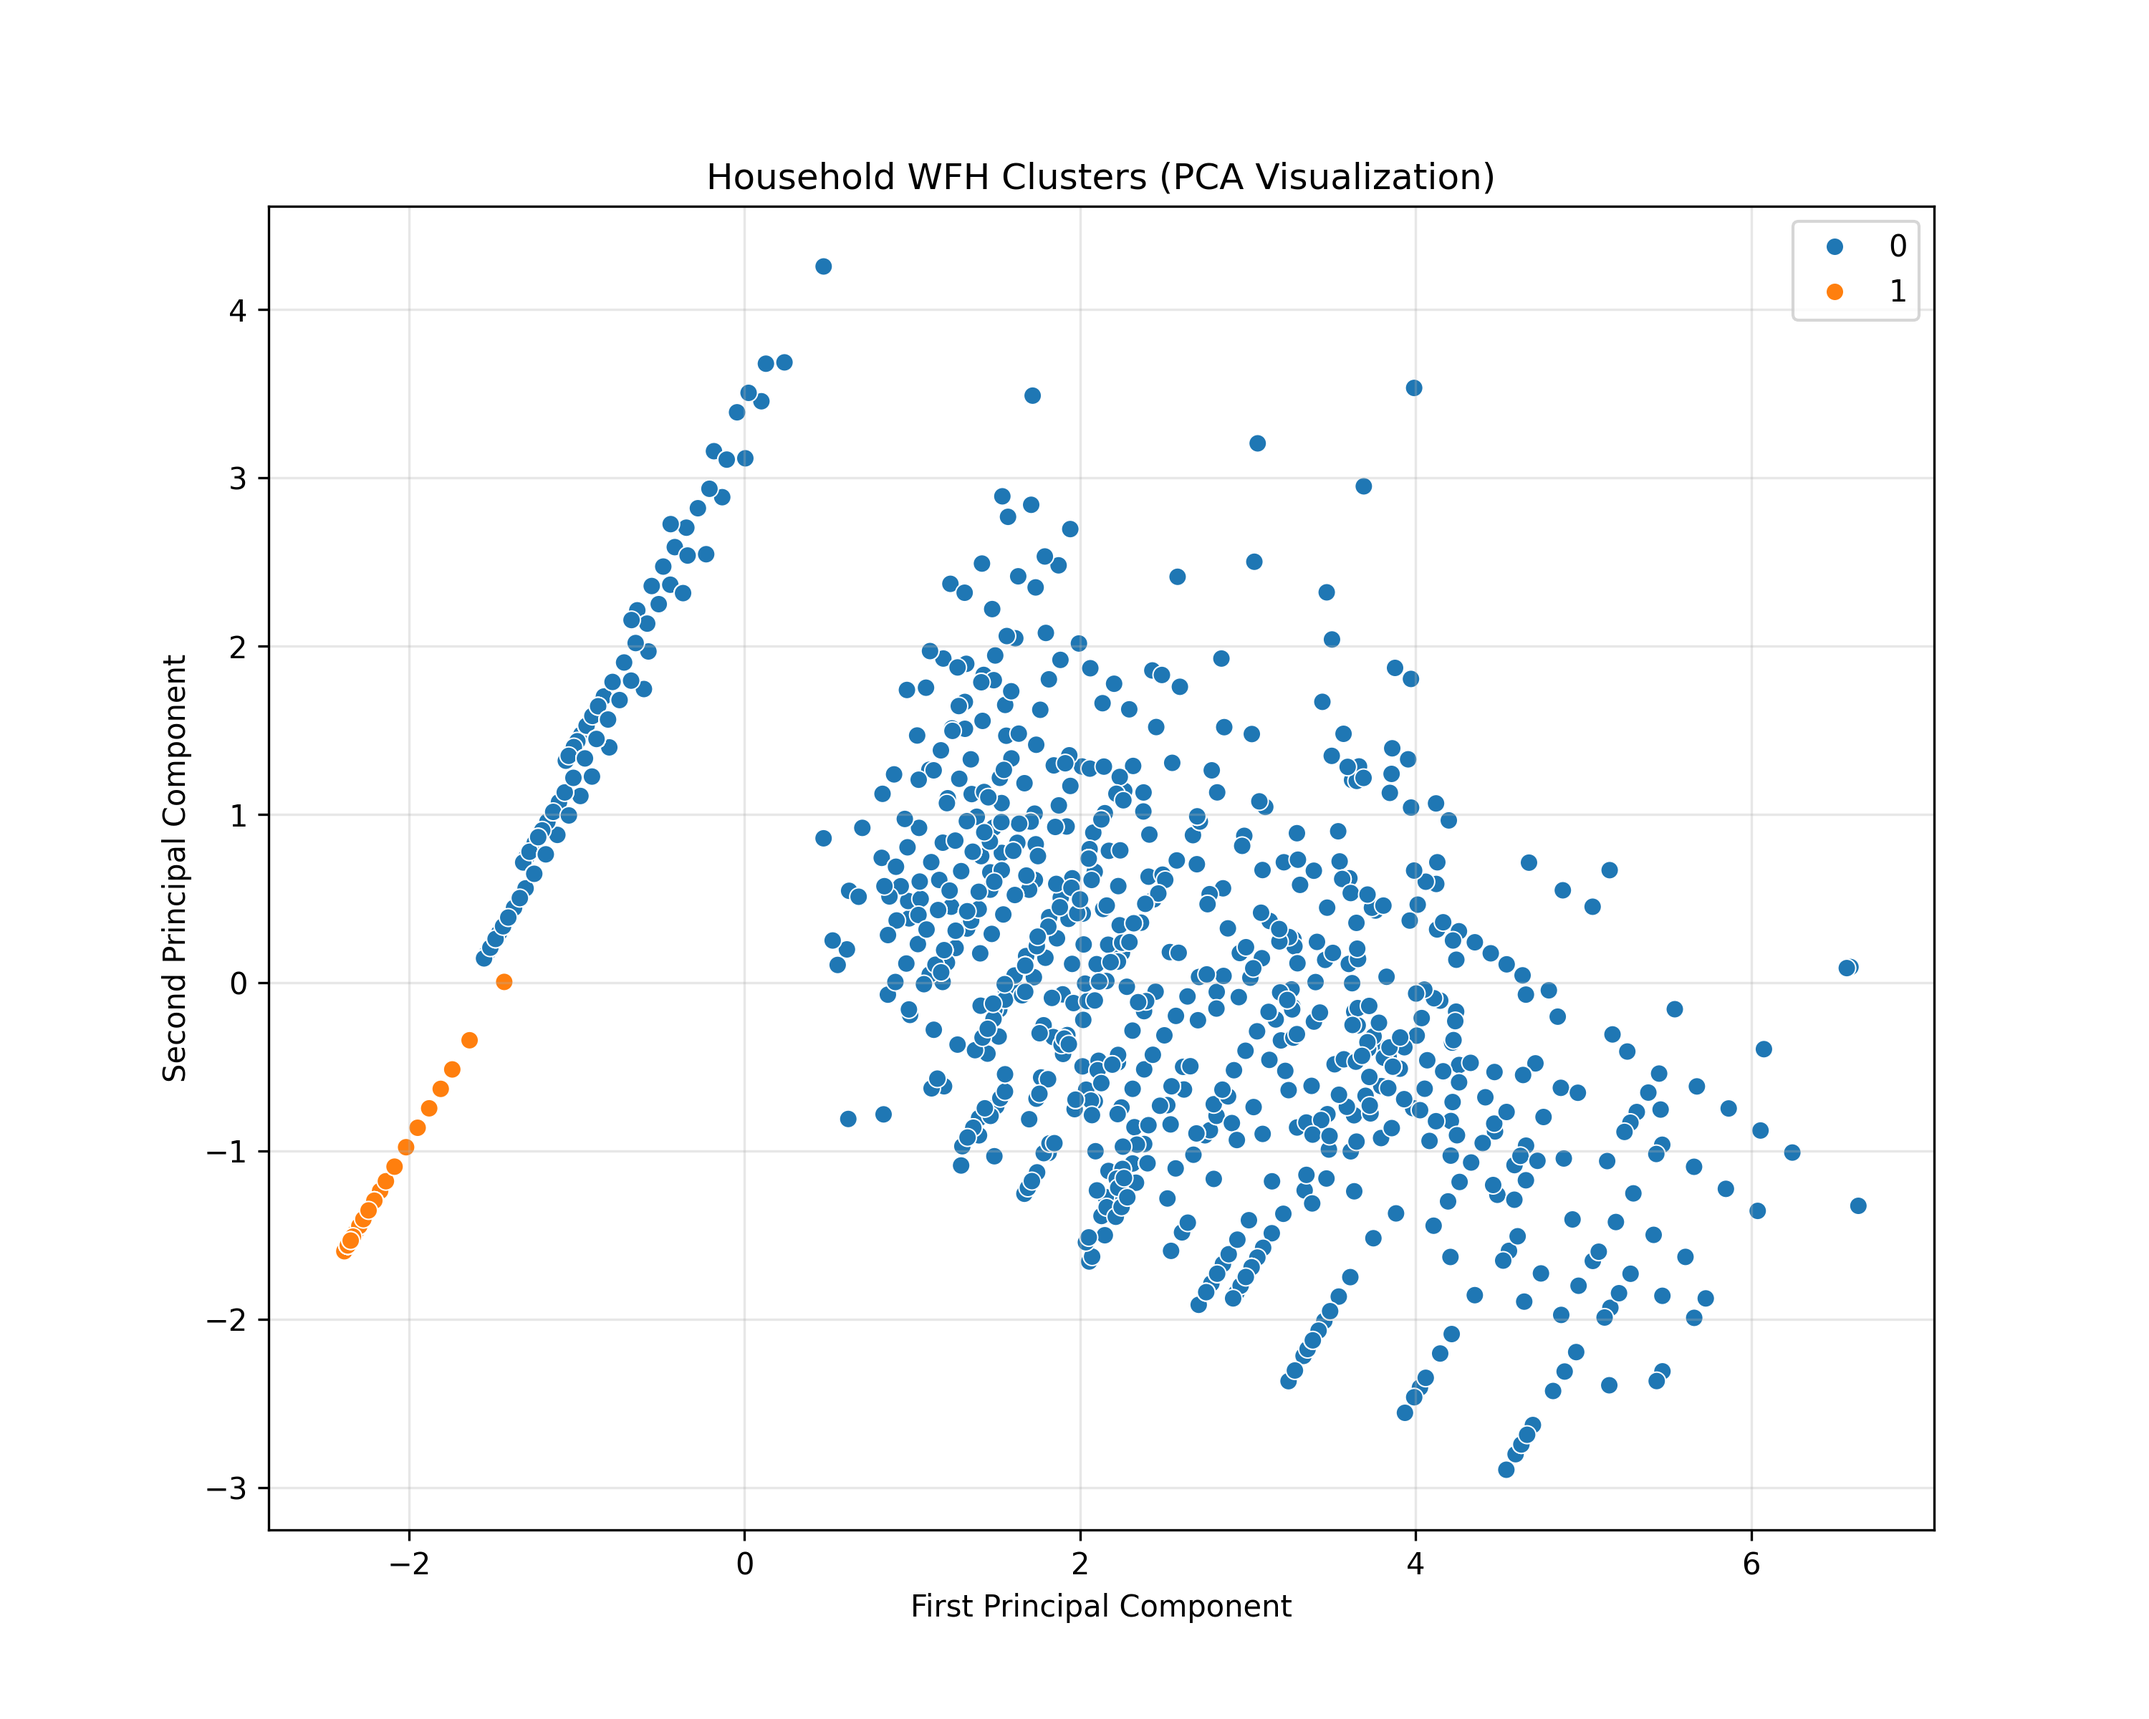
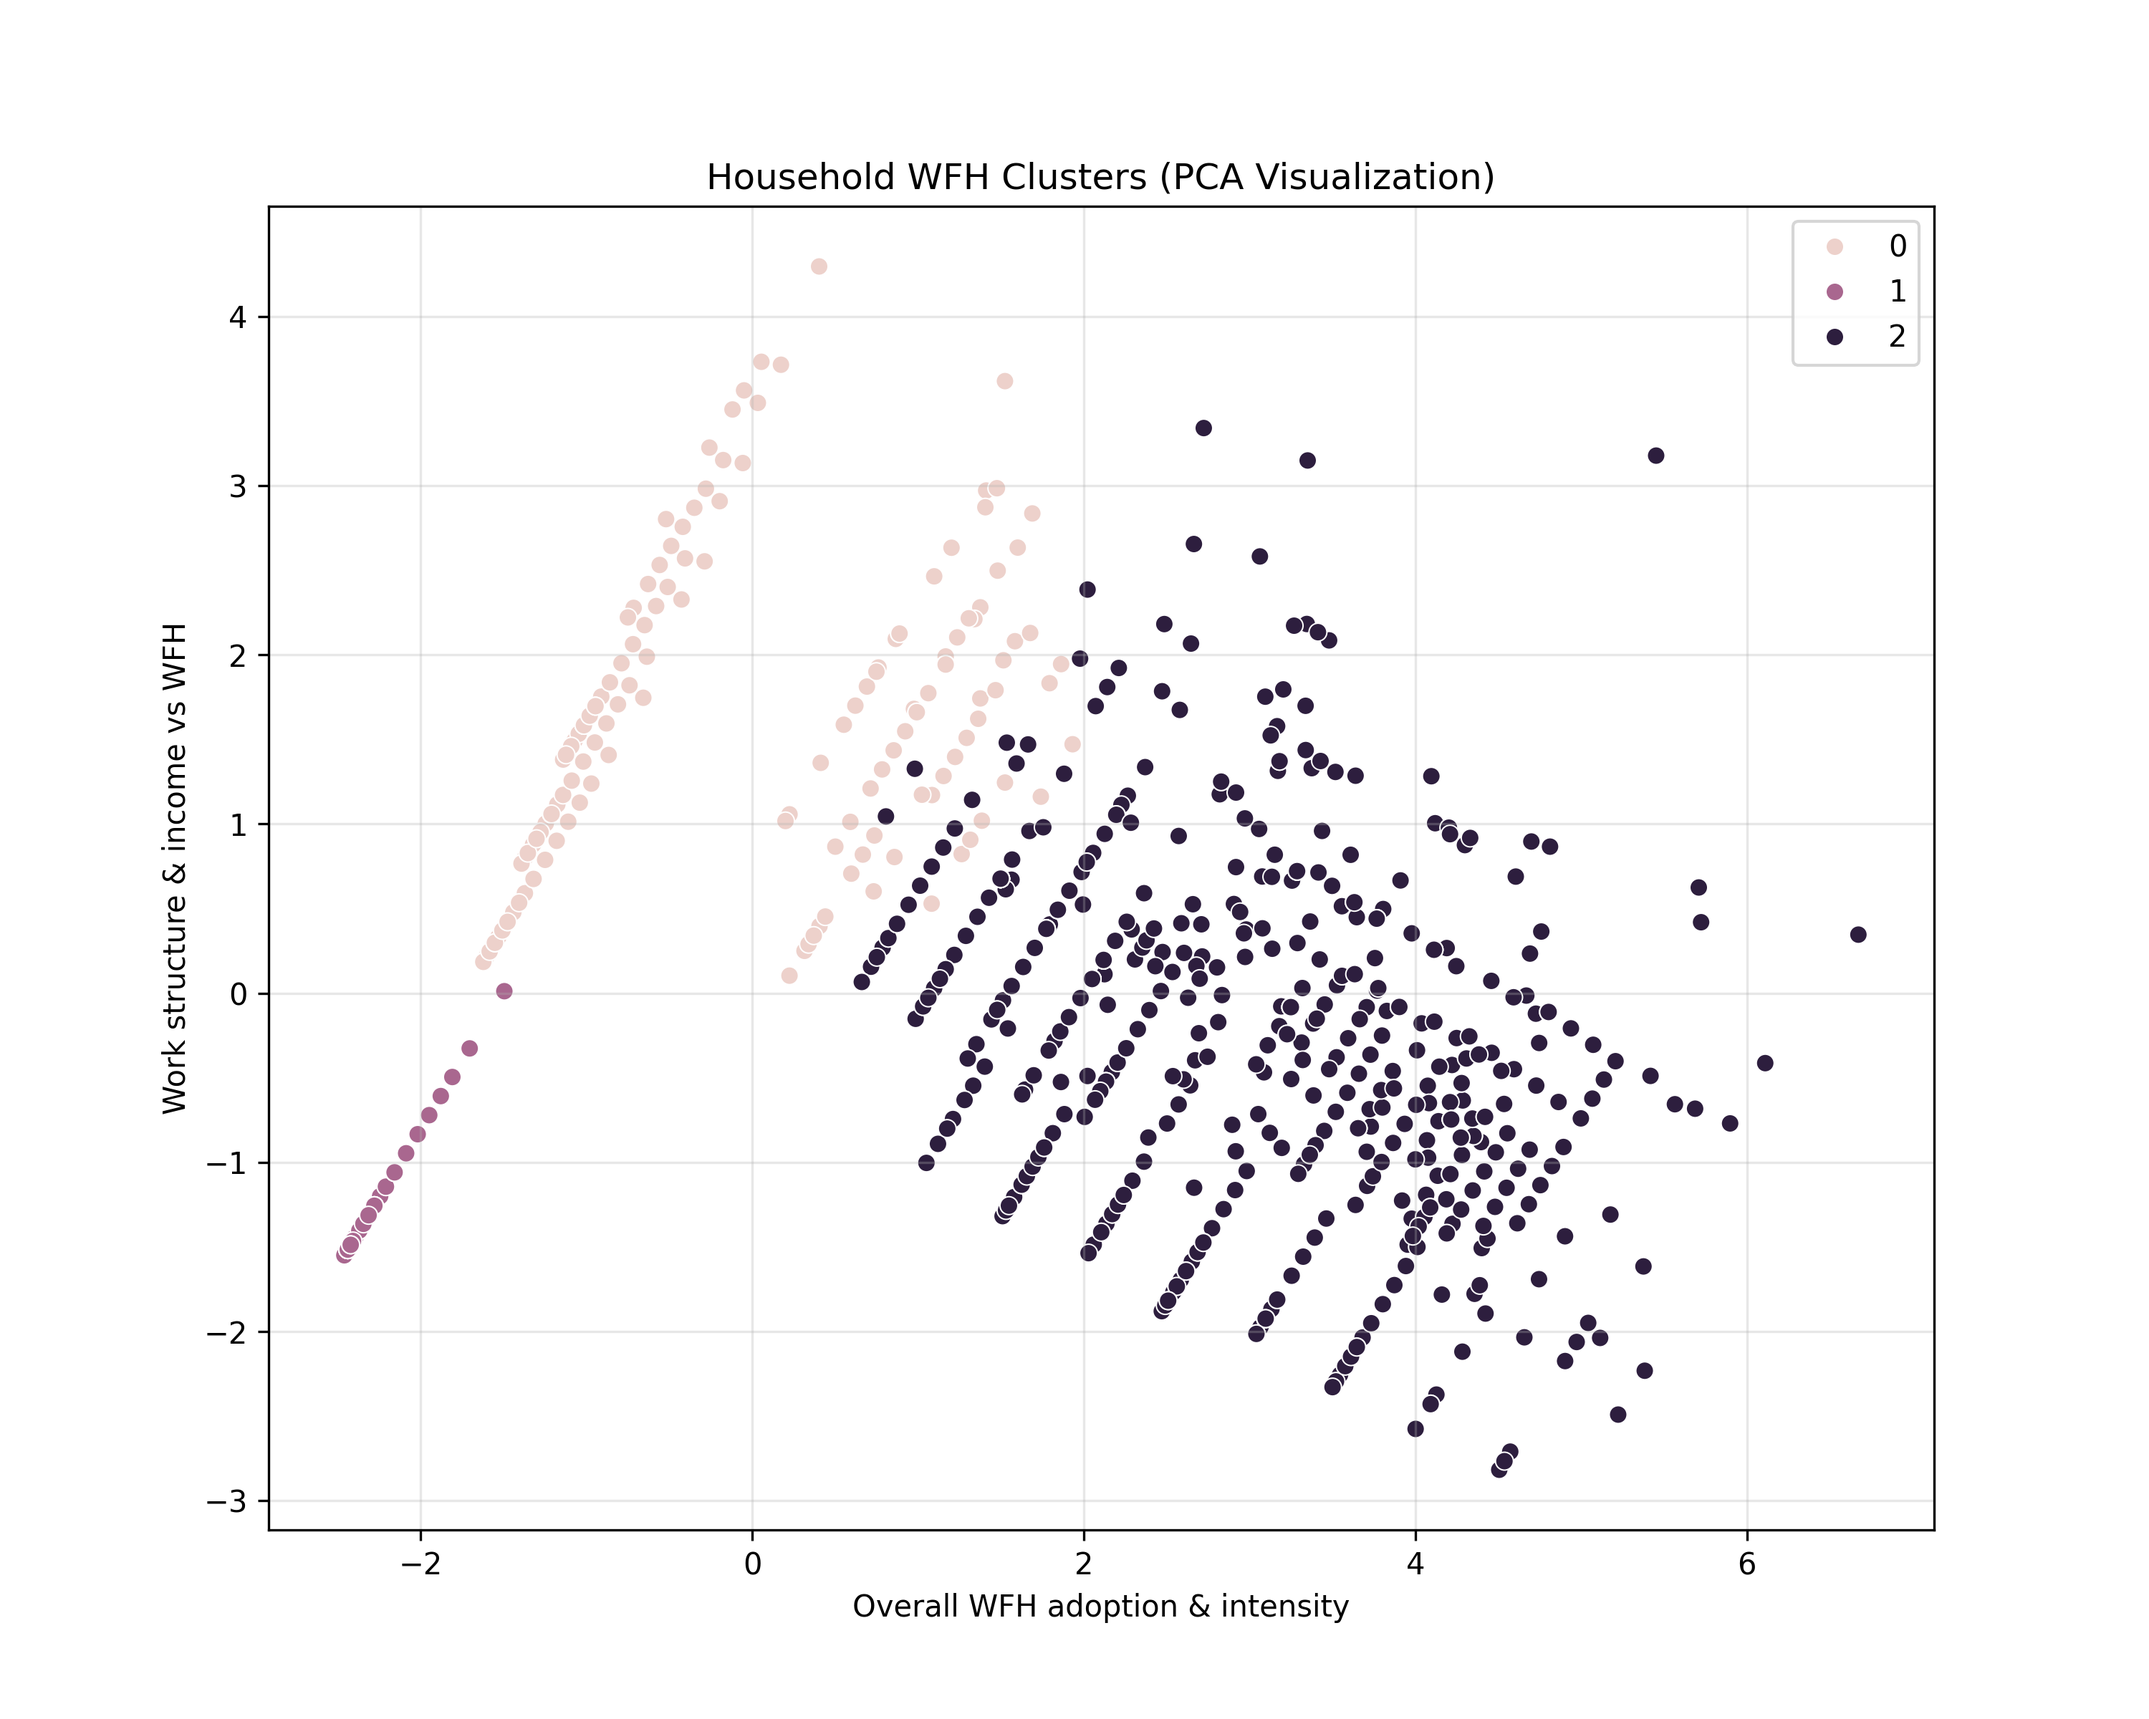
update

diff --git a/04_clustering/scipts/household.py b/04_clustering/scipts/household.py
@@ -5,28 +5,44 @@ import matplotlib.pyplot as plt
 import seaborn as sns
 import re
 import pandas as pd
-from sklearn.preprocessing import LabelEncoder
 
 
-journey_df = pd.read_csv("01_preprocessing/outputs/processed_journey_master.csv")
-print(journey_df.columns)
-print(journey_df.loc[0])
+household_df = pd.read_csv("01_preprocessing/outputs/processed_household_master_readable.csv")
 
-journey_features = [
-    'wfh_intensity',
-    'wfh_adopter',
-    'agegroup'
+
+household_features = [
+    'household_wfh_saturation',      
+    'num_wfh_workers',
+    'proportion_wfh_workers',
+    'avg_household_wfh_intensity',
+    'max_household_wfh_intensity',
+    'num_working_members',
+    'has_worker',
+    'household_income_group',   
 ]
 
-median = journey_df[journey_features].median()
-journey_df[journey_features] = journey_df[journey_features].fillna(median)
+def average_yearly(s):
+    if pd.isna(s):
+        return None
+    else:
+        num_list = [int(x.replace(",", "")) for x in re.findall(r"[\d,]+", s)]
+        if len(num_list) == 2:
+            return num_list[1]
+        elif len(num_list) == 4:
+            average = (num_list[2] + num_list[3]) / 2
+            return average
+        
+household_df['household_income_group'] = household_df['household_income_group'].apply(average_yearly)
+        
 
-
-normalized_data = MinMaxScaler().fit_transform(journey_df[journey_features])
+# Normalize features
+median = household_df[household_features].median()
+household_df[household_features] = household_df[household_features].fillna(median)
+normalized_data = MinMaxScaler().fit_transform(household_df[household_features])
 
 # Standardize features
 scaler = StandardScaler()
-X_scaled = scaler.fit_transform(journey_df[journey_features])
+X_scaled = scaler.fit_transform(household_df[household_features])
 
 
 # Determine optimal number of clusters
@@ -55,16 +71,16 @@ ax2.set_xlabel('Number of Clusters')
 ax2.set_ylabel('Silhouette Score')
 plt.tight_layout()
 
-plt.savefig('journey_cluster_optimization.png', dpi=300)
+plt.savefig('househould_cluster_optimization.png', dpi=300)
 
-# Apply optimal clustering (from the two graphs above shows optimal k is 3)
+# Apply optimal clustering (from the two graphs above shows optimal k is 2)
 optimal_k = 3
 kmeans_final = KMeans(n_clusters=optimal_k, random_state=42)
-journey_df['cluster'] = kmeans_final.fit_predict(normalized_data)
+household_df['cluster'] = kmeans_final.fit_predict(normalized_data)
 
 # Cluster profiling
-cluster_profiles = journey_df.groupby('cluster')[journey_features].mean()
-cluster_sizes = journey_df['cluster'].value_counts().sort_index()
+cluster_profiles = household_df.groupby('cluster')[household_features].mean()
+cluster_sizes = household_df['cluster'].value_counts().sort_index()
 
 print("Cluster Profiles:")
 print(cluster_profiles)
@@ -82,9 +98,10 @@ plt.figure(figsize=(10, 8))
 sns.scatterplot(x = X_pca[:,0],
                 y = X_pca[:,1],
                 hue = kmeans_final.labels_)
-plt.xlabel('First Principal Component')
-plt.ylabel('Second Principal Component')
+plt.xlabel('Overall WFH adoption & intensity')
+plt.ylabel('Work structure & income vs WFH')
 plt.title('Household WFH Clusters (PCA Visualization)')
 plt.legend()
 plt.grid(True, alpha=0.3)
-plt.savefig('journey_household_clusters_pca.png', dpi=300)
+plt.savefig('household_clusters_pca.png', dpi=300)
+

diff --git a/04_clustering/scipts/age.py b/04_clustering/scipts/age.py
@@ -1,0 +1,98 @@
+from sklearn.cluster import KMeans
+from sklearn.preprocessing import MinMaxScaler, StandardScaler
+from sklearn.metrics import silhouette_score
+import matplotlib.pyplot as plt
+import seaborn as sns
+import pandas as pd
+from sklearn.preprocessing import LabelEncoder
+
+
+person_df = pd.read_csv("01_preprocessing/outputs/processed_person_master_readable.csv")
+
+person_df['wfh_frequency'] = person_df[['wfh_monday', 'wfh_tuesday', 'wfh_wednesday', 'wfh_thursday', 'wfh_friday', 'wfh_saturday', 'wfh_sunday']].sum(axis=1)
+person_df['wfh_consistency'] = person_df[['wfh_monday', 'wfh_tuesday', 'wfh_wednesday', 'wfh_thursday', 'wfh_friday']].std(axis=1) 
+
+person_features = [
+    'wfh_intensity',
+    'wfh_adopter',
+    'wfh_frequency',
+    'wfh_consistency'
+]
+
+median = person_df[person_features].median()
+person_df[person_features] = person_df[person_features].fillna(median)
+
+le = LabelEncoder()
+person_df['agegroup_encoded'] = le.fit_transform(person_df['age_group'].fillna('Unknown'))
+
+person_features.append('agegroup_encoded')
+
+normalized_data = MinMaxScaler().fit_transform(person_df[person_features])
+
+# Standardize features
+scaler = StandardScaler()
+X_scaled = scaler.fit_transform(person_df[person_features])
+
+
+# Determine optimal number of clusters
+inertias = []
+silhouette_scores = []
+k_range = range(2, 10)
+
+for k in k_range:
+    kmeans = KMeans(n_clusters=k, random_state=42)
+    kmeans.fit(X_scaled)
+    inertias.append(kmeans.inertia_)
+    silhouette_scores.append(silhouette_score(X_scaled, kmeans.labels_))
+
+fig, (ax1, ax2) = plt.subplots(1, 2, figsize = (12, 6))
+
+# Plot elbow curve
+ax1.plot(k_range, inertias, 'bo-')
+ax1.set_title('Elbow Method for Optimal K')
+ax1.set_xlabel('Number of Clusters')
+ax1.set_ylabel('Inertia')
+
+# Plot silhouette score curv
+ax2.plot(k_range, silhouette_scores, 'ro-')
+ax2.set_title('Silhouette Score vs Number of Clusters')
+ax2.set_xlabel('Number of Clusters')
+ax2.set_ylabel('Silhouette Score')
+plt.tight_layout()
+
+plt.savefig('age_cluster_optimization.png', dpi=300)
+
+# Apply optimal clustering (from the two graphs above shows optimal k is 3)
+optimal_k = 5
+kmeans_final = KMeans(n_clusters=optimal_k, random_state=42)
+person_df['cluster'] = kmeans_final.fit_predict(normalized_data)
+
+# Cluster profiling
+cluster_profiles = person_df.groupby('cluster')[person_features].mean()
+cluster_sizes = person_df['cluster'].value_counts().sort_index()
+
+print("Cluster Profiles:")
+print(cluster_profiles)
+print("\nCluster Sizes:")
+print(cluster_sizes)
+
+
+# Visualize clusters (PCA for dimensionality reduction)
+from sklearn.decomposition import PCA
+
+sklearn_pca = PCA(n_components=2)
+X_pca = sklearn_pca.fit_transform(X_scaled)
+
+plt.figure(figsize=(10, 8))
+sns.scatterplot(x=X_pca[:, 0],
+                y=X_pca[:, 1],
+                hue=kmeans_final.labels_,
+                palette='Set2',
+                alpha=0.6,
+                s=50)
+plt.xlabel('Overall WFH engagement')
+plt.ylabel('WFH stability vs age group')
+plt.title('Age WFH Clusters (PCA Visualization)')
+plt.legend()
+plt.grid(True, alpha=0.3)
+plt.savefig('age_household_clusters_pca.png', dpi=300)

diff --git a/04_clustering/scipts/WorkType.py b/04_clustering/scipts/WorkType.py
@@ -6,23 +6,27 @@ import seaborn as sns
 import pandas as pd
 from sklearn.preprocessing import LabelEncoder
 
+person_df = pd.read_csv("01_preprocessing/outputs/processed_person_master_readable.csv")
 
-person_df = pd.read_csv("01_preprocessing/outputs/processed_person_master.csv")
-print(person_df.columns)
+person_df['wfh_frequency'] = person_df[['wfh_monday', 'wfh_tuesday', 'wfh_wednesday', 'wfh_thursday', 'wfh_friday', 'wfh_saturday', 'wfh_sunday']].sum(axis=1)
+person_df['wfh_consistency'] = person_df[['wfh_monday', 'wfh_tuesday', 'wfh_wednesday', 'wfh_thursday', 'wfh_friday']].std(axis=1) 
 
 person_features = [
     'wfh_intensity',
     'wfh_adopter',
+    'wfh_frequency',
+    'wfh_consistency'
 ]
 
 median = person_df[person_features].median()
 person_df[person_features] = person_df[person_features].fillna(median)
 
 le = LabelEncoder()
-person_df['anzsco1_encoded'] = le.fit_transform(person_df['anzsco1'].fillna('Unknown'))
+person_df['works_full_time_encoded'] = le.fit_transform(person_df['works_full_time'].fillna('Unknown'))
+person_df['works_part_time_encoded'] = le.fit_transform(person_df['works_part_time'].fillna('Unknown'))
 
-person_features.append('anzsco1_encoded')
-
+person_features.append('works_full_time_encoded')
+person_features.append('works_part_time_encoded')
 
 normalized_data = MinMaxScaler().fit_transform(person_df[person_features])
 
@@ -57,10 +61,10 @@ ax2.set_xlabel('Number of Clusters')
 ax2.set_ylabel('Silhouette Score')
 plt.tight_layout()
 
-plt.savefig('person_cluster_optimization.png', dpi=300)
+plt.savefig('WorkType_cluster_optimization.png', dpi=300)
 
 # Apply optimal clustering (from the two graphs above shows optimal k is 3)
-optimal_k = 3
+optimal_k = 6
 kmeans_final = KMeans(n_clusters=optimal_k, random_state=42)
 person_df['cluster'] = kmeans_final.fit_predict(normalized_data)
 
@@ -81,13 +85,15 @@ sklearn_pca = PCA(n_components=2)
 X_pca = sklearn_pca.fit_transform(X_scaled)
 
 plt.figure(figsize=(10, 8))
-sns.scatterplot(x = X_pca[:,0],
-                y = X_pca[:,1],
-                hue = kmeans_final.labels_)
-plt.xlabel('First Principal Component')
-plt.ylabel('Second Principal Component')
-plt.title('Household WFH Clusters (PCA Visualization)')
+sns.scatterplot(x=X_pca[:, 0],
+                y=X_pca[:, 1],
+                hue=kmeans_final.labels_,
+                palette='Set2',
+                alpha=0.6,
+                s=50)
+plt.xlabel('Overall WFH engagement')
+plt.ylabel('WFH stability & employment pattern')
+plt.title('WorkType WFH Clusters (PCA Visualization)')
 plt.legend()
 plt.grid(True, alpha=0.3)
-plt.savefig('person_household_clusters_pca.png', dpi=300)
-
+plt.savefig('WorkType_household_clusters_pca.png', dpi=300)
